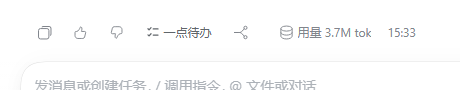
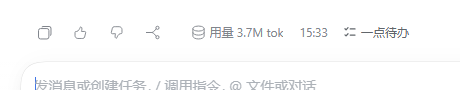
fix: place footer todos entry after the completion time

Changed region(s): [[0.3043, 0.2667, 0.913, 0.4444]]

diff --git a/client.js b/client.js
@@ -203,7 +203,7 @@ window.__ModuleLoader__.load({
       '.dsh-wt-heroIcon{display:flex;align-items:center;justify-content:center;flex:none;width:16px;height:16px;color:var(--dsw-alias-label-primary)}',
       '.dsh-wt-heroLabel{white-space:nowrap}',
       '.dsh-wt-heroCount{min-width:16px;padding:0 5px;border-radius:999px;background:var(--dsw-alias-brand-primary);color:var(--dsw-alias-bg-base);font-size:10px;line-height:16px;text-align:center;font-variant-numeric:tabular-nums}',
-      '.dsh-wt-footerBtn{display:inline-flex;align-items:center;gap:4px;height:28px;padding:0 7px;border:0;border-radius:var(--dsw-radius-sm);background:transparent;color:var(--dsw-alias-label-secondary);font:inherit;font-size:12px;line-height:20px;cursor:pointer}',
+      '.dsh-wt-footerBtn{display:inline-flex;align-items:center;gap:4px;height:28px;padding:0 7px;border:0;border-radius:var(--dsw-radius-sm);background:transparent;color:var(--dsw-alias-label-secondary);font:inherit;font-size:12px;line-height:20px;cursor:pointer;order:1}',
       '.dsh-wt-footerBtn:hover{background:var(--dsw-alias-interactive-bg-hover);color:var(--dsw-alias-label-primary)}',
       '.dsh-wt-footerBtn:focus-visible{outline:2px solid var(--dsw-alias-brand-primary);outline-offset:1px}',
       '.dsh-wt-footerIcon{display:flex;align-items:center;justify-content:center;flex:none;width:14px;height:14px;color:currentColor}',

diff --git a/README.en.md b/README.en.md
@@ -12,7 +12,7 @@ The entry in the new-session control row above the input (same row as the worksp
 
 ![Yidian Todos entry in the input control row](./preview-dock.png)
 
-Historical conversations have no control row; the entry sits in the latest assistant reply's footer, on the same line as usage and the clock:
+Historical conversations have no control row; the entry sits in the latest assistant reply's footer, to the right of the completion time:
 
 ![Yidian Todos entry in a historical reply footer](./preview-history.png)
 
@@ -20,7 +20,7 @@ Historical conversations have no control row; the entry sits in the latest assis
 
 - A **Yidian Todos** entry in the sidebar.
 - In a new session, the entry shares the control row above the input with the workspace and agent-preset controls.
-- In a historical conversation, the entry sits in the latest assistant reply's footer, on the same line as usage and the clock, without adding a row.
+- In a historical conversation, the entry sits in the latest assistant reply's footer, to the right of the usage pill and clock, without adding a row.
 - The entry shows the current workspace's open count and opens the panel in one click.
 - The entry hides while the session is running, so it never competes with the generation controls.
 - Per-workspace notes, following the workspace of the active session; switch workspaces from the header.

diff --git a/README.md b/README.md
@@ -12,7 +12,7 @@
 
 ![输入框上方按钮行里的入口](./preview-dock.png)
 
-历史会话没有这行按钮；入口放在最新一条回复底部的操作行，与用量、时间同一行：
+历史会话没有这行按钮；入口放在最新一条回复底部的操作行，位于完成时间右侧：
 
 ![历史会话回复底部的入口](./preview-history.png)
 
@@ -20,7 +20,7 @@
 
 - 在侧边栏新增「一点待办」入口。
 - 新会话时，入口出现在输入框上方按钮行，与工作区、Agent 预设同一行。
-- 历史会话时，入口放在最新一条回复底部的操作行，与「用量 … tok」和时间同一行，不新增一行。
+- 历史会话时，入口放在最新一条回复底部的操作行，位于「用量 … tok」和完成时间右侧，不新增一行。
 - 入口显示当前工作区未完成数量，点击直接打开面板。
 - 会话运行中自动隐藏入口，避免在生成过程中占用操作行。
 - 按工作区隔离，自动跟随当前会话所属工作区；多工作区时可在顶部切换。

diff --git a/CHANGELOG.md b/CHANGELOG.md
@@ -3,7 +3,7 @@
 ## 1.1.0
 
 - Rename the product to **Yidian Todos** (一点待办).
-- Add an entry above the input: in a new session it shares the workspace/preset row; in a historical conversation it sits in the latest assistant reply's footer beside usage and the clock. It shows the current workspace's open count and opens the panel in one click.
+- Add an entry above the input: in a new session it shares the workspace/preset row; in a historical conversation it sits in the latest assistant reply's footer, to the right of the usage pill and clock. It shows the current workspace's open count and opens the panel in one click.
 - Hide the entry while the session is running.
 
 ## 1.0.0
